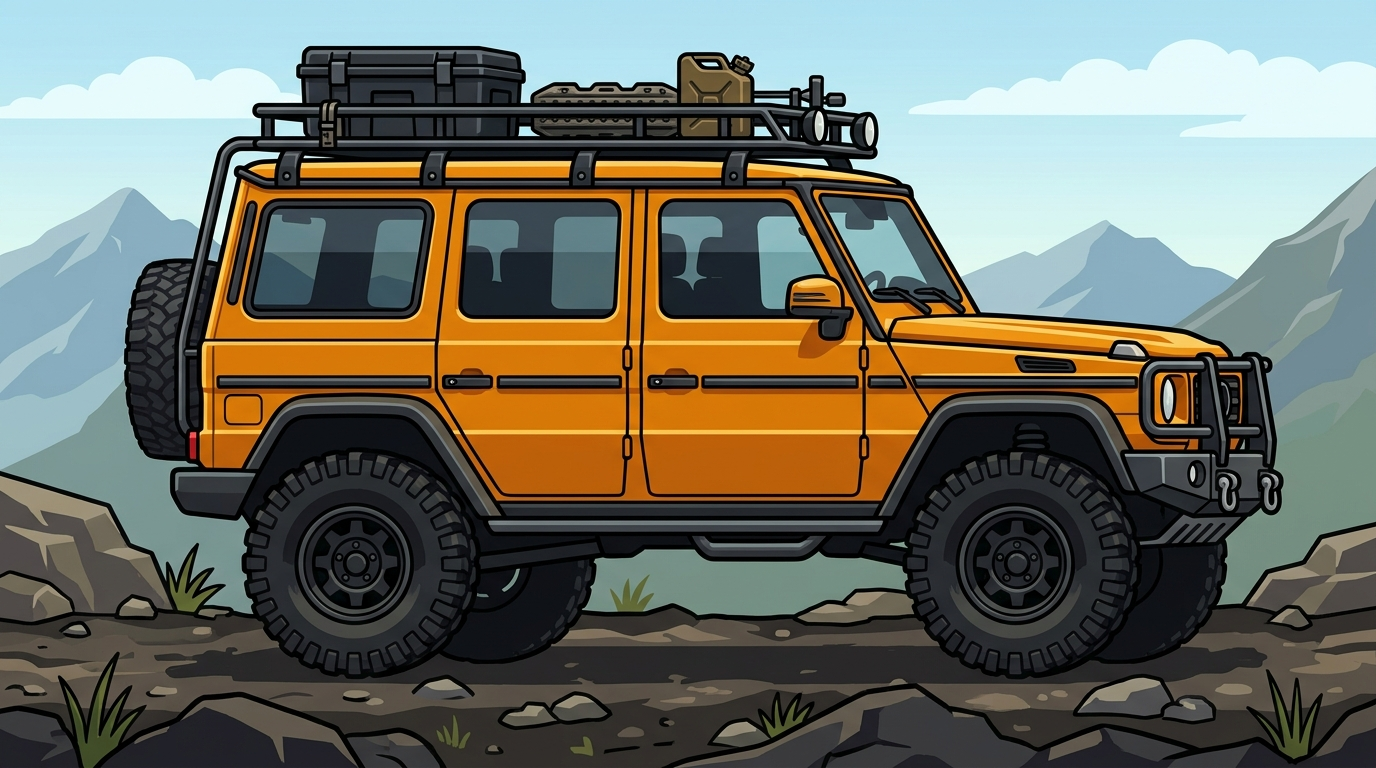
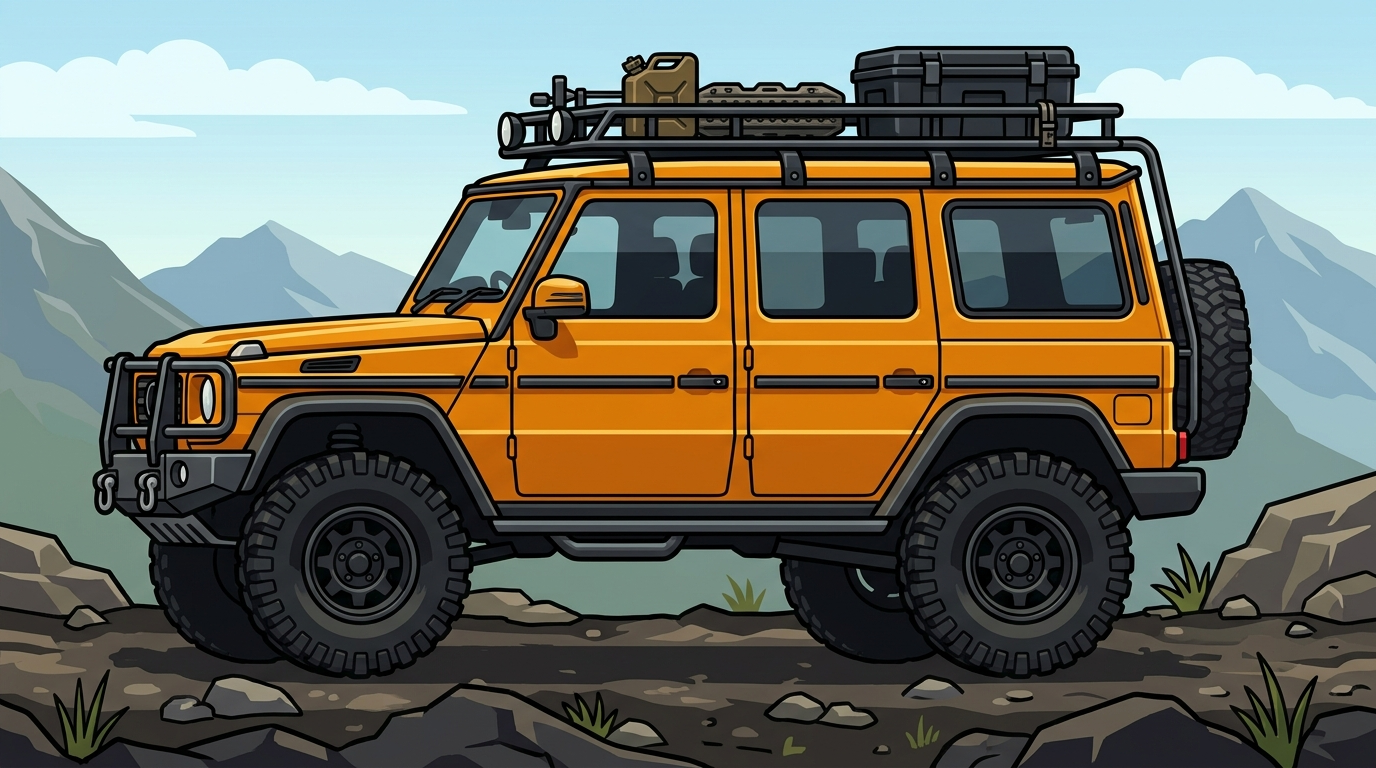
fix(summit): restore high-quality vehicle sprites, resolve directional issues, and maintain detailed procedural wheels

diff --git a/apps/web/src/features/games/summit-rush/render/vehicle-sprite.ts b/apps/web/src/features/games/summit-rush/render/vehicle-sprite.ts
@@ -45,49 +45,23 @@ const TIRE = '#1f2430';
 const TIRE_TREAD = '#3a4150';
 const RIM = '#e2e8f0';
 const HUB = '#f59e0b';
-const HELMET = '#f8fafc';
-const VISOR = '#0f172a';
+const vehicleImages: Record<string, HTMLImageElement> = {};
 
-function drawChassisShape(ctx: CanvasRenderingContext2D, modelId: string) {
-  ctx.beginPath();
-  if (modelId === 'buggy') {
-    ctx.moveTo(-1.5, -0.05);
-    ctx.lineTo(1.3, -0.05);
-    ctx.quadraticCurveTo(1.6, -0.05, 1.65, 0.2);
-    ctx.lineTo(1.56, 0.5);
-    ctx.quadraticCurveTo(1.2, 0.55, 0.6, 0.54);
-    ctx.quadraticCurveTo(0.4, 0.5, 0.34, 0.4);
-    ctx.lineTo(-0.55, 0.4);
-    ctx.quadraticCurveTo(-0.7, 0.4, -0.78, 0.56);
-    ctx.lineTo(-1.45, 0.56);
-    ctx.quadraticCurveTo(-1.52, 0.56, -1.52, 0.4);
-    ctx.lineTo(-1.5, -0.05);
-  } else if (modelId === 'speedster') {
-    ctx.moveTo(-1.4, -0.05);
-    ctx.lineTo(1.6, -0.05);
-    ctx.bezierCurveTo(1.8, -0.05, 1.9, 0.1, 1.8, 0.15);
-    ctx.quadraticCurveTo(1.6, 0.2, 1.4, 0.3);
-    ctx.lineTo(0.6, 0.35);
-    ctx.quadraticCurveTo(0.4, 0.38, 0.2, 0.4);
-    ctx.lineTo(-0.6, 0.4);
-    ctx.quadraticCurveTo(-1.0, 0.42, -1.2, 0.45);
-    ctx.lineTo(-1.5, 0.3);
-    ctx.lineTo(-1.4, -0.05);
-  } else if (modelId === 'climber') {
-    ctx.moveTo(-1.6, -0.05);
-    ctx.lineTo(1.4, -0.05);
-    ctx.quadraticCurveTo(1.5, -0.05, 1.5, 0.1);
-    ctx.lineTo(1.5, 0.4);
-    ctx.quadraticCurveTo(1.4, 0.65, 1.3, 0.65);
-    ctx.lineTo(0.7, 0.7);
-    ctx.quadraticCurveTo(0.5, 0.7, 0.4, 0.4);
-    ctx.lineTo(-0.6, 0.4);
-    ctx.quadraticCurveTo(-1.4, 0.4, -1.5, 0.7);
-    ctx.lineTo(-1.6, 0.6);
-    ctx.lineTo(-1.6, -0.05);
-  }
-  ctx.closePath();
+function getVehicleImage(modelId: string): HTMLImageElement | null {
+  if (typeof window === 'undefined') return null;
+  if (vehicleImages[modelId]) return vehicleImages[modelId];
+
+  const img = new Image();
+  img.src = `/images/vehicles/${modelId}.png`;
+  vehicleImages[modelId] = img;
+  return img;
 }
+
+const SPRITE_CONFIGS: Record<string, { width: number; xOffset: number; yOffset: number }> = {
+  buggy: { width: 3.4, xOffset: -1.7, yOffset: 0.15 },
+  climber: { width: 3.6, xOffset: -1.8, yOffset: 0.3 },
+  speedster: { width: 3.6, xOffset: -1.8, yOffset: 0.2 },
+};
 
 function drawStrut(ctx: CanvasRenderingContext2D, v: VehiclePose, w: WheelPose): void {
   const anchor = toWorld(v.pos, v.angle, w.mount);
@@ -212,268 +186,6 @@ function drawWheel(ctx: CanvasRenderingContext2D, w: WheelPose): void {
   ctx.restore();
 }
 
-function drawDriver(ctx: CanvasRenderingContext2D, livery: Livery, crashed: boolean, modelId: string): void {
-  const driverY = modelId === 'speedster' ? -0.2 : modelId === 'climber' ? -0.05 : 0;
-  ctx.save();
-  ctx.translate(0, driverY);
-  
-  // Torso and arm reaching for the wheel.
-  ctx.fillStyle = livery.jacket;
-  ctx.beginPath();
-  ctx.moveTo(-0.42, 0.38);
-  ctx.lineTo(0.02, 0.38);
-  ctx.lineTo(-0.02, 0.92);
-  ctx.lineTo(-0.32, 0.92);
-  ctx.closePath();
-  ctx.fill();
-  ctx.strokeStyle = livery.jacket;
-  ctx.lineWidth = 0.12;
-  ctx.lineCap = 'round';
-  ctx.beginPath();
-  ctx.moveTo(-0.1, 0.82);
-  ctx.lineTo(0.28, 0.62);
-  ctx.stroke();
-  ctx.strokeStyle = '#1f2937';
-  ctx.lineWidth = 0.07;
-  ctx.beginPath();
-  ctx.moveTo(0.22, 0.46);
-  ctx.lineTo(0.36, 0.72);
-  ctx.stroke();
-
-  const { x, y } = HEAD_OFFSET;
-  ctx.fillStyle = HELMET;
-  ctx.beginPath();
-  ctx.arc(x, y, HEAD_RADIUS, 0, Math.PI * 2);
-  ctx.fill();
-  ctx.fillStyle = livery.trim;
-  ctx.fillRect(x - HEAD_RADIUS * 0.95, y + 0.02, HEAD_RADIUS * 1.2, 0.07);
-  ctx.fillStyle = crashed ? '#ef4444' : VISOR;
-  ctx.beginPath();
-  ctx.ellipse(x + 0.12, y - 0.02, 0.14, 0.1, 0, 0, Math.PI * 2);
-  ctx.fill();
-  ctx.restore();
-}
-
-function drawCarPart(ctx: CanvasRenderingContext2D, livery: Livery, modelId: string, partId: string): void {
-  const isSpeedster = modelId === 'speedster';
-  const isClimber = modelId === 'climber';
-
-  if (partId === 'chassis') {
-    // Main body with metallic gradient
-    const grad = ctx.createLinearGradient(-1.5, 0.6, 1.5, -0.2);
-    grad.addColorStop(0, livery.body);
-    grad.addColorStop(0.3, livery.body);
-    grad.addColorStop(1, livery.shade);
-    
-    ctx.fillStyle = grad;
-    drawChassisShape(ctx, modelId);
-    ctx.fill();
-    
-    // Lower body shading
-    ctx.fillStyle = livery.shade;
-    ctx.fillRect(-1.5, -0.05, 3.1, 0.18);
-    
-    // Custom trim and styling
-    ctx.fillStyle = livery.trim;
-    if (isClimber) {
-      ctx.fillRect(-1.4, 0.3, 1.0, 0.1);
-      ctx.fillRect(0.6, 0.35, 0.8, 0.1);
-      ctx.strokeStyle = livery.shade;
-      ctx.lineWidth = 0.04;
-      ctx.strokeRect(-0.6, 0.15, 0.8, 0.4); 
-      ctx.strokeRect(0.25, 0.15, 0.5, 0.4); 
-    } else if (isSpeedster) {
-      ctx.fillRect(-1.4, 0.15, 3.0, 0.08);
-      ctx.fillStyle = '#fff';
-      ctx.fillRect(-1.4, 0.23, 3.0, 0.03);
-      ctx.fillStyle = '#1e293b';
-      ctx.fillRect(-0.8, 0.28, 0.1, 0.1);
-      ctx.fillRect(-0.65, 0.28, 0.1, 0.1);
-    } else {
-      ctx.fillRect(-1.45, 0.26, 1.0, 0.07);
-      ctx.fillRect(0.72, 0.3, 0.8, 0.07);
-      ctx.fillStyle = '#1e293b';
-      ctx.beginPath();
-      ctx.arc(-0.8, 0.2, 0.1, 0, Math.PI * 2);
-      ctx.fill();
-    }
-
-    // Fenders
-    ctx.strokeStyle = '#0f172a';
-    ctx.lineWidth = 0.18;
-    for (const fx of [-1.02, 1.08]) {
-      ctx.beginPath();
-      ctx.arc(fx, -0.1, 0.56, 0.2, Math.PI - 0.2);
-      ctx.stroke();
-      // Inner fender shadow
-      ctx.strokeStyle = 'rgba(0,0,0,0.3)';
-      ctx.lineWidth = 0.08;
-      ctx.beginPath();
-      ctx.arc(fx, -0.1, 0.48, 0.2, Math.PI - 0.2);
-      ctx.stroke();
-    }
-    
-    // Panel lines (doors, hood)
-    ctx.strokeStyle = 'rgba(0,0,0,0.2)';
-    ctx.lineWidth = 0.03;
-    ctx.beginPath();
-    if (isClimber) {
-      ctx.moveTo(-0.6, 0.4); ctx.lineTo(-0.6, 0); // back door seam
-      ctx.moveTo(0.25, 0.4); ctx.lineTo(0.25, 0); // front door seam
-      ctx.moveTo(1.2, 0.4); ctx.lineTo(1.2, 0.1); // hood seam
-    } else if (isSpeedster) {
-      ctx.moveTo(-0.2, 0.4); ctx.lineTo(-0.2, 0); // door seam
-      ctx.moveTo(0.9, 0.35); ctx.lineTo(1.2, 0.2); // hood seam
-    } else {
-      ctx.moveTo(-0.4, 0.4); ctx.lineTo(-0.4, 0); // buggy panel
-      ctx.moveTo(0.4, 0.45); ctx.lineTo(0.6, 0.1); // buggy hood
-    }
-    ctx.stroke();
-    
-    // Windows for enclosed cars
-    if (isClimber) {
-      ctx.fillStyle = 'rgba(148, 163, 184, 0.3)';
-      ctx.beginPath();
-      ctx.moveTo(-0.5, 0.4);
-      ctx.lineTo(-0.5, 0.6);
-      ctx.lineTo(0.3, 0.6);
-      ctx.lineTo(0.3, 0.4);
-      ctx.fill();
-    } else if (isSpeedster) {
-      ctx.fillStyle = 'rgba(148, 163, 184, 0.4)';
-      ctx.beginPath();
-      ctx.moveTo(0.2, 0.4);
-      ctx.lineTo(0.6, 0.4);
-      ctx.lineTo(0.9, 0.3);
-      ctx.lineTo(0.5, 0.3);
-      ctx.fill();
-    }
-    
-    // Decals & Text
-    ctx.save();
-    ctx.scale(1, -1); // Flip text to be upright in physics space
-    ctx.textAlign = 'center';
-    ctx.textBaseline = 'middle';
-    if (isClimber) {
-      ctx.fillStyle = '#ffffff';
-      ctx.font = '900 0.2px sans-serif';
-      ctx.fillText('4x4', -1.0, -0.15);
-      ctx.font = '900 0.15px sans-serif';
-      ctx.fillStyle = livery.trim;
-      ctx.fillText('MNTN', -1.0, -0.35);
-    } else if (isSpeedster) {
-      ctx.fillStyle = '#ffffff';
-      ctx.font = 'italic 900 0.25px sans-serif';
-      ctx.fillText('99', 0, -0.15);
-      ctx.fillStyle = livery.trim;
-      ctx.font = '900 0.1px sans-serif';
-      ctx.fillText('TURBO', 0.8, -0.2);
-    } else {
-      ctx.fillStyle = '#ffffff';
-      ctx.font = '900 0.2px sans-serif';
-      ctx.fillText('77', -0.2, -0.2);
-      ctx.fillStyle = livery.trim;
-      ctx.beginPath();
-      ctx.arc(-1.1, -0.25, 0.08, 0, Math.PI*2);
-      ctx.fill();
-    }
-    ctx.restore();
-    
-    // Lights
-    ctx.fillStyle = '#fef9c3';
-    ctx.beginPath();
-    if (isSpeedster) {
-      ctx.ellipse(1.5, 0.25, 0.15, 0.05, 0.2, 0, Math.PI * 2);
-    } else if (isClimber) {
-      ctx.fillRect(1.42, 0.45, 0.1, 0.15);
-    } else {
-      ctx.arc(1.54, 0.34, 0.08, 0, Math.PI * 2);
-    }
-    ctx.fill();
-
-    ctx.fillStyle = '#ef4444';
-    if (isClimber) {
-      ctx.fillRect(-1.6, 0.4, 0.08, 0.15);
-    } else {
-      ctx.beginPath();
-      ctx.arc(-1.48, 0.3, 0.05, 0, Math.PI * 2);
-      ctx.fill();
-    }
-  } else if (partId === 'roof') {
-    ctx.strokeStyle = livery.cage;
-    ctx.lineWidth = 0.09;
-    ctx.lineJoin = 'round';
-    ctx.lineCap = 'round';
-    
-    if (isClimber) {
-      ctx.beginPath();
-      ctx.moveTo(-0.7, 0.6);
-      ctx.lineTo(-0.6, 1.25);
-      ctx.lineTo(0.35, 1.25);
-      ctx.lineTo(0.65, 0.65);
-      ctx.moveTo(-0.6, 1.25);
-      ctx.lineTo(-1.3, 0.65);
-      ctx.stroke();
-      ctx.lineWidth = 0.05;
-      ctx.beginPath();
-      ctx.moveTo(-0.5, 1.3);
-      ctx.lineTo(0.2, 1.3);
-      ctx.moveTo(-0.4, 1.25);
-      ctx.lineTo(-0.4, 1.3);
-      ctx.moveTo(0.1, 1.25);
-      ctx.lineTo(0.1, 1.3);
-      ctx.stroke();
-    } else if (isSpeedster) {
-      ctx.beginPath();
-      ctx.moveTo(-0.8, 0.4);
-      ctx.lineTo(-0.5, 1.05);
-      ctx.lineTo(0.2, 1.05);
-      ctx.lineTo(0.5, 0.4);
-      ctx.moveTo(-0.5, 1.05);
-      ctx.lineTo(-1.1, 0.4);
-      ctx.stroke();
-    } else {
-      ctx.beginPath();
-      ctx.moveTo(-0.72, 0.5);
-      ctx.lineTo(-0.62, 1.18);
-      ctx.lineTo(0.3, 1.18);
-      ctx.lineTo(0.62, 0.52);
-      ctx.moveTo(-0.62, 1.18);
-      ctx.lineTo(-1.2, 0.56);
-      ctx.stroke();
-    }
-  } else if (partId === 'engine') {
-    ctx.fillStyle = '#475569';
-    ctx.fillRect(-1.48, 0.52, 0.5, 0.22);
-    ctx.fillStyle = '#94a3b8';
-    ctx.fillRect(-1.66, 0.58, 0.24, 0.08);
-    ctx.fillStyle = '#1e293b';
-    ctx.beginPath();
-    ctx.arc(-1.66, 0.62, 0.03, 0, Math.PI * 2);
-    ctx.fill();
-  } else if (partId === 'spoiler') {
-    if (isSpeedster) {
-      ctx.fillStyle = livery.trim;
-      ctx.fillRect(-1.7, 0.5, 0.5, 0.05);
-      ctx.strokeStyle = livery.cage;
-      ctx.lineWidth = 0.09;
-      ctx.beginPath();
-      ctx.moveTo(-1.45, 0.3);
-      ctx.lineTo(-1.45, 0.5);
-      ctx.stroke();
-    }
-  } else if (partId === 'driver') {
-    drawDriver(ctx, livery, true, modelId);
-  }
-}
-
-function drawBody(ctx: CanvasRenderingContext2D, livery: Livery, modelId: string): void {
-  drawCarPart(ctx, livery, modelId, 'roof');
-  drawCarPart(ctx, livery, modelId, 'engine');
-  drawCarPart(ctx, livery, modelId, 'spoiler');
-  drawCarPart(ctx, livery, modelId, 'chassis');
-}
-
 export function drawVehicle(
   ctx: CanvasRenderingContext2D,
   v: VehiclePose,
@@ -486,20 +198,53 @@ export function drawVehicle(
   }
   
   if (v.fragments && v.fragments.length > 0) {
-    for (const f of v.fragments) {
-      ctx.save();
-      ctx.translate(f.pos.x, f.pos.y);
-      ctx.rotate(f.angle);
-      drawCarPart(ctx, livery, modelId, f.partId);
-      ctx.restore();
+    const img = getVehicleImage(modelId);
+    if (img && img.complete && img.naturalWidth > 0) {
+      const config = SPRITE_CONFIGS[modelId] || { width: 3.4, xOffset: -1.7, yOffset: 0.2 };
+      const width = config.width;
+      const height = width * (img.naturalHeight / img.naturalWidth);
+      const centerY = -config.yOffset;
+      const drawY = centerY - height / 2;
+
+      for (const f of v.fragments) {
+        ctx.save();
+        ctx.translate(f.pos.x, f.pos.y);
+        ctx.rotate(f.angle);
+        ctx.scale(1, -1); // flip back for image drawing
+        
+        const sx = f.nx * img.naturalWidth;
+        const sy = f.ny * img.naturalHeight;
+        const sw = f.nw * img.naturalWidth;
+        const sh = f.nh * img.naturalHeight;
+        
+        const dx = config.xOffset + f.nx * width;
+        const dy = drawY + f.ny * height;
+        const dw = f.nw * width;
+        const dh = f.nh * height;
+        
+        ctx.drawImage(img, sx, sy, sw, sh, dx, dy, dw, dh);
+        ctx.restore();
+      }
     }
   } else {
     ctx.save();
     ctx.translate(v.pos.x, v.pos.y);
     ctx.rotate(v.angle);
     ctx.scale(1 + v.squash * 0.05, 1 - v.squash * 0.1);
-    drawDriver(ctx, livery, crashed, modelId);
-    drawBody(ctx, livery, modelId);
+    
+    // We don't draw the stickman driver anymore because the AI art has no windows
+    // (except Buggy which is open, but AI art usually implies a driver or closed cabin).
+    const img = getVehicleImage(modelId);
+    if (img && img.complete && img.naturalWidth > 0) {
+      const config = SPRITE_CONFIGS[modelId] || { width: 3.4, xOffset: -1.7, yOffset: 0.2 };
+      const width = config.width;
+      const height = width * (img.naturalHeight / img.naturalWidth);
+      ctx.scale(1, -1);
+      const centerY = -config.yOffset;
+      const drawY = centerY - height / 2;
+      ctx.drawImage(img, config.xOffset, drawY, width, height);
+    }
+    
     ctx.restore();
   }
   
